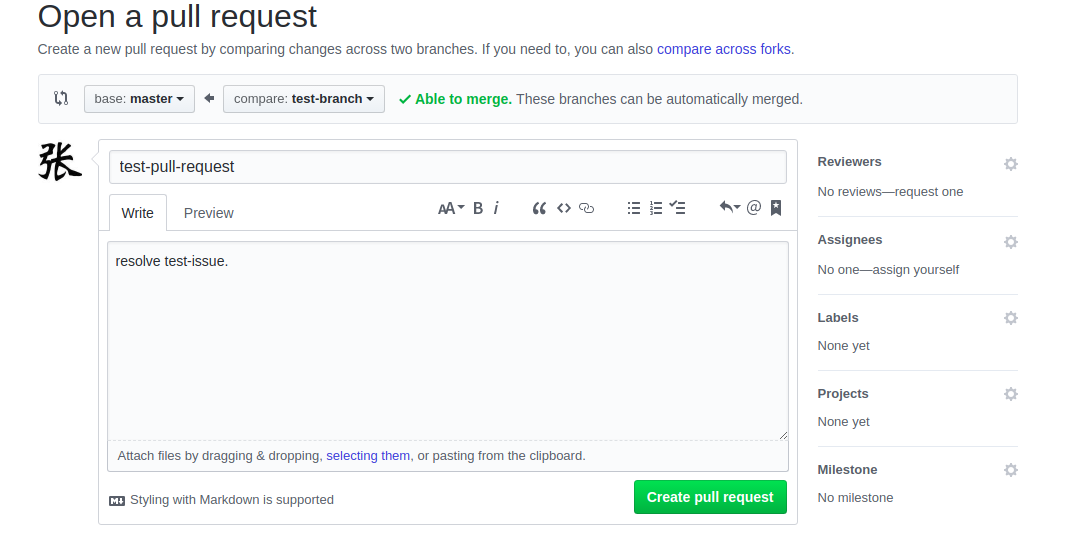
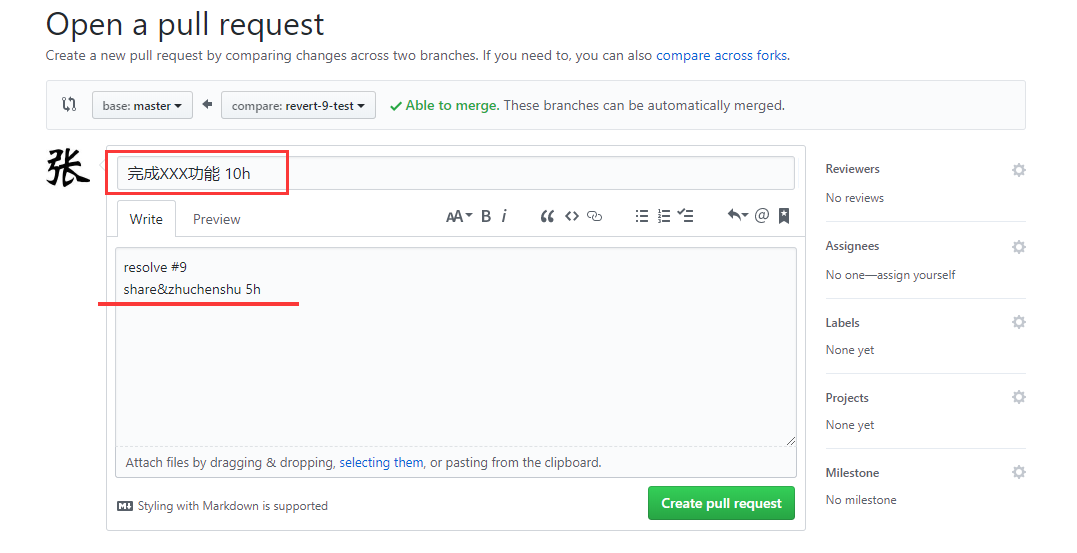
'修改readme'

diff --git a/README.md b/README.md
@@ -39,19 +39,25 @@
 
 使用`Github`提交一个`Pull Request`。
 
+标题中写本次提交的所花费的时间，例： `xxx 几h`。
+
+注意：标题中只允许出现一个空格，即`完成XXX功能 2h`，出现额外空格会出现错误。
+
+如果受人帮助，想给他人分享贡献值，在主体中除了`resolve`某个`issue`之外，还要写上与他人共享，`share&用户名 几h`。
+
 ![](image/contribution/4.png)
 
-点击`Merge pull request`。
+可以直接在贡献值管理模块查看贡献值。
 
 ![](image/contribution/5.png)
 
-在弹出来的`Confirm merge`对话框中输入`contribute 2h`，这里的`contribute`和`h`是可以在`config.php`中自定义的配置项，`Confirm merge`。
-
 ![](image/contribution/6.png)
 
-这时，`Github`会向我们的接口中发送消息，同时统计贡献值。我们可以查看详细信息以及对贡献值进行修改。
+同时查看贡献值的详细信息。
 
 ![](image/contribution/7.png)
+
+同时也可以对贡献值进行增加或删除，如用贡献值换置设备。
 
 ### 注意
 
